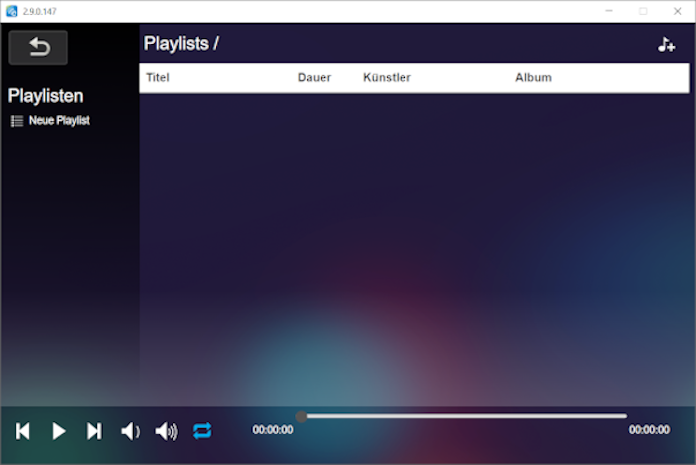
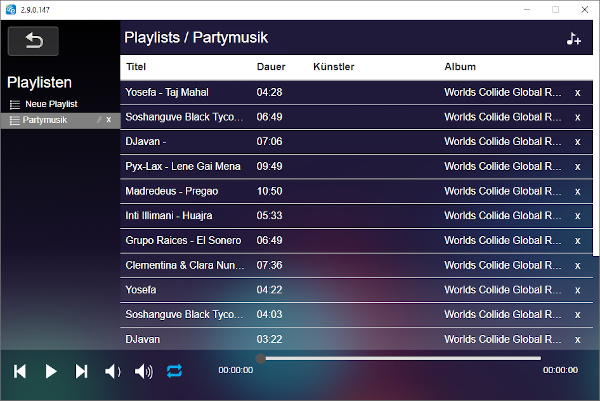
Various updates to App page

diff --git a/src/Pro-Stick-D10/ezcastproapp.md b/src/Pro-Stick-D10/ezcastproapp.md
@@ -94,36 +94,36 @@ Wenn `Automatischer Ablauf zulassen` aktiviert ist, benötigt kein Gast die Gene
 
 Die obengenannten Eigenschaften befinden sich in der Rubrik [Datenschutz](#datenschutz).
 
-Weitere Einstellungen zur Host-Kontrolle, die Sie permanent in der Firmwarekonfiguration einstellen können, finden Sie in den [Erweiterte Einstellungen -> Host-Kontrolle](adv.settings.md#Host-Steuerung).
+Weitere Einstellungen zur Host-Kontrolle, die Sie permanent in der Firmwarekonfiguration einstellen können, finden Sie in der Rubrik [Erweiterte Einstellungen -> Host-Kontrolle](adv.settings.md#Host-Steuerung).
 
-## Bildschirm aufteilen
+# Bildschirm aufteilen
 
 Die Funktion **Bildschirm aufteilen** ist eine einfache Moderatorkontrolle für den Host mit den folgenden Möglichkeiten: 
 
-* Der Bildschirm des Hosts im Vollbild zeigen.
+* den Bildschirm des Hosts im Vollbild zeigen.
 
-* Die Bildschirmübertragung des Hosts neu positionieren.
+* die Bildschirmübertragung des Hosts neu positionieren.
 
-* Alle Übertragungen beenden und auf die Startseite rückkehren.
+* alle Übertragungen beenden und auf die Startseite rückkehren.
+
+![](/images/Bildschirmaufteilen2.png)
+
+Die Funktion **Bildschirm aufteilen** befindet sich in der linken Panel der App/Software. 
 
 ![](/images/Bildschirmaufteilen1.png)
 
-Das EZCast Pro Gerät kann die Anzeige von bis zu vier Benutzer gleichzeitig auf dem Bildschirm übertragen.
+Das EZCast Pro Gerät kann die Anzeige von bis zu vier Benutzern gleichzeitig auf dem Bildschirm übertragen.
 
 > #### info::Hinweis
-> Die Funktion **Bildschirm aufteilen** kann die Bildschirmübertragung einzelner Gäste weder neu positionieren noch beenden. Für eine etwas ausführlichere Moderatorfunktion empfehlen wir die Verwendung der [Konferenzsteuerung](#Konferenzsteuerung) in den Erweiterte Einstellungen.
-
-![](/images/Bildschirmaufteilen2.png) 
+> Die Funktion **Bildschirm aufteilen** kann die Bildschirmübertragung einzelner Gäste weder neu positionieren noch beenden. Für eine etwas ausführlichere Moderatorfunktion empfehlen wir die Verwendung der [Konferenzsteuerung](#Konferenzsteuerung) unter der Funktion Erweiterte Einstellungen.
 
 # Konferenzsteuerung
 
-Konferenzsteuerung ist ein Mittel nur für den Host, den Verlauf einer Präsentation nach seinem Wunsch auszuführen, indem er über verschiedene Kontrollmöglichkeiten verfügt:
-
-Der Host kann sich unterscheiden, wie und wann andere Teilnehmer während einer Präsentation Ihre Bildschirme übertragen können. Die Schaltflächen zur `Neupositionierung`, `Vollbild`, oder sogar zum `Trennen`, finden Sie rechts unter Spalten.
+Konferenzsteuerung ist ein Mittel nur für den Host, den Verlauf einer Präsentation nach seinem Wunsch auszuführen, indem er über verschiedene Kontrollmöglichkeiten verfügt. Der Host kann sich unterscheiden, wie und wann andere Teilnehmer während einer Präsentation Ihre Bildschirme übertragen können. Die Schaltflächen zur `Neupositionierung`, `Vollbild`, oder sogar zum `Trennen`, finden Sie rechts unter Spalten.
 
 ![](/images/konferensteuerung.png)
 
-*  	Der Host kann auch die Rolle als „Host“ an andere Teilnehmer zuordnen.
+Der Host kann auch die Rolle als „Host“ an andere Teilnehmer zuordnen.
 
 ![](/images/konferensteuerung2.png)
 
@@ -154,24 +154,23 @@ Mit diesen Schaltflächen sind Sie in der Lage, die Qualität einer Videoübertr
 
 # Musik (streamen)
 
+Die kostenlose App/Software EZCastPro verfügt über die Möglichkeit auch Musik zu übertragen. Der Musik-Player ermöglicht Ihnen das Musikstreaming über WLAN, außerdem unterstützt die App ebenfalls die Playlists.
 
-Die kostenlose App/Software EZCastPro verfügt über die Möglichkeit auch Musik zu übertragen.
-	
-Der Musik-Player ermöglicht Ihnen das Musikstreaming über W-LAN, außerdem unterstützt die App ebenfalls die Playlists.
+![Musik wird abgespielt](/images/playlistapp.png)
 
-![](/images/playlistapp.png)
+![Musik wird übertragen](/images/App-Musiccasting.png)
 
 # Video (streamen)
 
-Wenn Sie die Videofunktion der App/Software EZCastPro benutzen, können Sie Ihre Videodateien auf einen Empfänger, auch mit Vollbild-Widergabe übertragen.	Durch die Kontrollleiste der App können Sie die Videowiedergabe steuern.
+Wenn es wichtig ist, ein ruckelfreies Abspielen eines Videos zu gewehrleisten, nutzen Sie die Video-Funktion. Im Gegenteil zur üblichen Spiegelungsfunktion handelt sich um ein Streamen, was bedeutet, dass das Video nur auf dem großen Display anzeigt, anstatt gleichzeitig auf Ihrem Endgerät.
+Sobald Sie die Videodatei auf Ihrem Endgerät bzw. aus Ihrem Netzwerk auswählen, wird einen Zwischenspeicher bzw. einen "Puffer" aufgebaut. Dies kann je nach Endgeräte- und Netzwerkleistung einige Sekunden dauern, bis das Abspielen beginnt.
 
-![](/images/videoapp.png)
+![Durch die Kontrollleiste der App können Sie die Videowiedergabe steuern](/images/videoapp.png)
 
-Außerdem können Sie Untertiteldateien mit Videos synchronisieren, Stellen Sie einfach sicher, dass der Dateiname und Name des Videos derselbe sind. Es wird automatisch während der Wiedergabe angezeigt.
+Außerdem können Sie Untertiteldateien mit Videos synchronisieren, Stellen Sie einfach sicher, dass der Dateiname und der Name des Videos gleich sind. Es wird automatisch während der Wiedergabe angezeigt.
 
-> #### info::Hinweis
->
->Für die Untertitelformate werden die srt, smi, ssa und cdg Formate, mit UTF-8-Kodierung unterstützt.
+>#### info::Hinweis
+>Es werden alle gängigen Videoformate unterstützt. Für die Untertitelformate werden die Formate srt, smi, ssa und cdg mit UTF-8-Kodierung unterstützt.
 
 # AirView
 

diff --git a/src/Pro-Box-B10/ezcastproapp.md b/src/Pro-Box-B10/ezcastproapp.md
@@ -94,32 +94,32 @@ Wenn `Automatischer Ablauf zulassen` aktiviert ist, benötigt kein Gast die Gene
 
 Die obengenannten Eigenschaften befinden sich in der Rubrik [Datenschutz](#datenschutz).
 
-Weitere Einstellungen zur Host-Kontrolle, die Sie permanent in der Firmwarekonfiguration einstellen können, finden Sie in den [Erweiterte Einstellungen -> Host-Kontrolle](adv.settings.md#Host-Steuerung).
+Weitere Einstellungen zur Host-Kontrolle, die Sie permanent in der Firmwarekonfiguration einstellen können, finden Sie in der [Erweiterte Einstellungen -> Host-Kontrolle](adv.settings.md#Host-Steuerung).
 
-## Bildschirm aufteilen
+# Bildschirm aufteilen
 
 Die Funktion **Bildschirm aufteilen** ist eine einfache Moderatorkontrolle für den Host mit den folgenden Möglichkeiten: 
 
-* Der Bildschirm des Hosts im Vollbild zeigen.
+* den Bildschirm des Hosts im Vollbild zeigen.
 
-* Die Bildschirmübertragung des Hosts neu positionieren.
+* die Bildschirmübertragung des Hosts neu positionieren.
 
-* Alle Übertragungen beenden und auf die Startseite rückkehren.
+* alle Übertragungen beenden und auf die Startseite rückkehren.
+
+![](/images/Bildschirmaufteilen2.png)
+
+Die Funktion **Bildschirm aufteilen** befindet sich in der linken Panel der App/Software. 
 
 ![](/images/Bildschirmaufteilen1.png)
 
-Das EZCast Pro Gerät kann die Anzeige von bis zu vier Benutzer gleichzeitig auf dem Bildschirm übertragen.
+Das EZCast Pro Gerät kann die Anzeige von bis zu vier Benutzern gleichzeitig auf dem Bildschirm übertragen.
 
 > #### info::Hinweis
-> Die Funktion **Bildschirm aufteilen** kann die Bildschirmübertragung einzelner Gäste weder neu positionieren noch beenden. Für eine etwas ausführlichere Moderatorfunktion empfehlen wir die Verwendung der [Konferenzsteuerung](#Konferenzsteuerung) in den Erweiterte Einstellungen.
-
-![](/images/Bildschirmaufteilen2.png) 
+> Die Funktion **Bildschirm aufteilen** kann die Bildschirmübertragung einzelner Gäste weder neu positionieren noch beenden. Für eine etwas ausführlichere Moderatorfunktion empfehlen wir die Verwendung der [Konferenzsteuerung](#Konferenzsteuerung) unter der Funktion Erweiterte Einstellungen.
 
 # Konferenzsteuerung
 
-Konferenzsteuerung ist ein Mittel nur für den Host, den Verlauf einer Präsentation nach seinem Wunsch auszuführen, indem er über verschiedene Kontrollmöglichkeiten verfügt:
-
-Der Host kann sich unterscheiden, wie und wann andere Teilnehmer während einer Präsentation Ihre Bildschirme übertragen können. Die Schaltflächen zur `Neupositionierung`, `Vollbild`, oder sogar zum `Trennen`, finden Sie rechts unter Spalten.
+Konferenzsteuerung ist ein Mittel nur für den Host, den Verlauf einer Präsentation nach seinem Wunsch auszuführen, indem er über verschiedene Kontrollmöglichkeiten verfügt. Der Host kann sich unterscheiden, wie und wann andere Teilnehmer während einer Präsentation Ihre Bildschirme übertragen können. Die Schaltflächen zur `Neupositionierung`, `Vollbild`, oder sogar zum `Trennen`, finden Sie rechts unter Spalten.
 
 ![](/images/konferensteuerung.png)
 
@@ -154,24 +154,23 @@ Mit diesen Schaltflächen sind Sie in der Lage, die Qualität einer Videoübertr
 
 # Musik (streamen)
 
+Die kostenlose App/Software EZCastPro verfügt über die Möglichkeit auch Musik zu übertragen. Der Musik-Player ermöglicht Ihnen das Musikstreaming über WLAN, außerdem unterstützt die App ebenfalls die Playlists.
 
-Die kostenlose App/Software EZCastPro verfügt über die Möglichkeit auch Musik zu übertragen.
-	
-Der Musik-Player ermöglicht Ihnen das Musikstreaming über W-LAN, außerdem unterstützt die App ebenfalls die Playlists.
+![Musik wird abgespielt](/images/playlistapp.png)
 
-![](/images/playlistapp.png)
+![Musik wird übertragen](/images/App-Musiccasting.png)
 
 # Video (streamen)
 
-Wenn Sie die Videofunktion der App/Software EZCastPro benutzen, können Sie Ihre Videodateien auf einen Empfänger, auch mit Vollbild-Widergabe übertragen.	Durch die Kontrollleiste der App können Sie die Videowiedergabe steuern.
+Wenn es wichtig ist, ein ruckelfreies Abspielen eines Videos zu gewehrleisten, nutzen Sie die Video-Funktion. Im Gegenteil zur üblichen Spiegelungsfunktion handelt sich um ein Streamen, was bedeutet, dass das Video nur auf dem großen Display anzeigt, anstatt gleichzeitig auf Ihrem Endgerät.
+Sobald Sie die Videodatei auf Ihrem Endgerät bzw. aus Ihrem Netzwerk auswählen, wird einen Zwischenspeicher bzw. einen "Puffer" aufgebaut. Dies kann je nach Endgeräte- und Netzwerkleistung einige Sekunden dauern, bis das Abspielen beginnt.
 
-![](/images/videoapp.png)
+![Durch die Kontrollleiste der App können Sie die Videowiedergabe steuern](/images/videoapp.png)
 
-Außerdem können Sie Untertiteldateien mit Videos synchronisieren, Stellen Sie einfach sicher, dass der Dateiname und Name des Videos derselbe sind. Es wird automatisch während der Wiedergabe angezeigt.
+Außerdem können Sie Untertiteldateien mit Videos synchronisieren, Stellen Sie einfach sicher, dass der Dateiname und der Name des Videos gleich sind. Es wird automatisch während der Wiedergabe angezeigt.
 
-> #### info::Hinweis
->
->Für die Untertitelformate werden die srt, smi, ssa und cdg Formate, mit UTF-8-Kodierung unterstützt.
+>#### info::Hinweis
+>Es werden alle gängigen Videoformate unterstützt. Für die Untertitelformate werden die Formate srt, smi, ssa und cdg mit UTF-8-Kodierung unterstützt.
 
 # AirView
 
